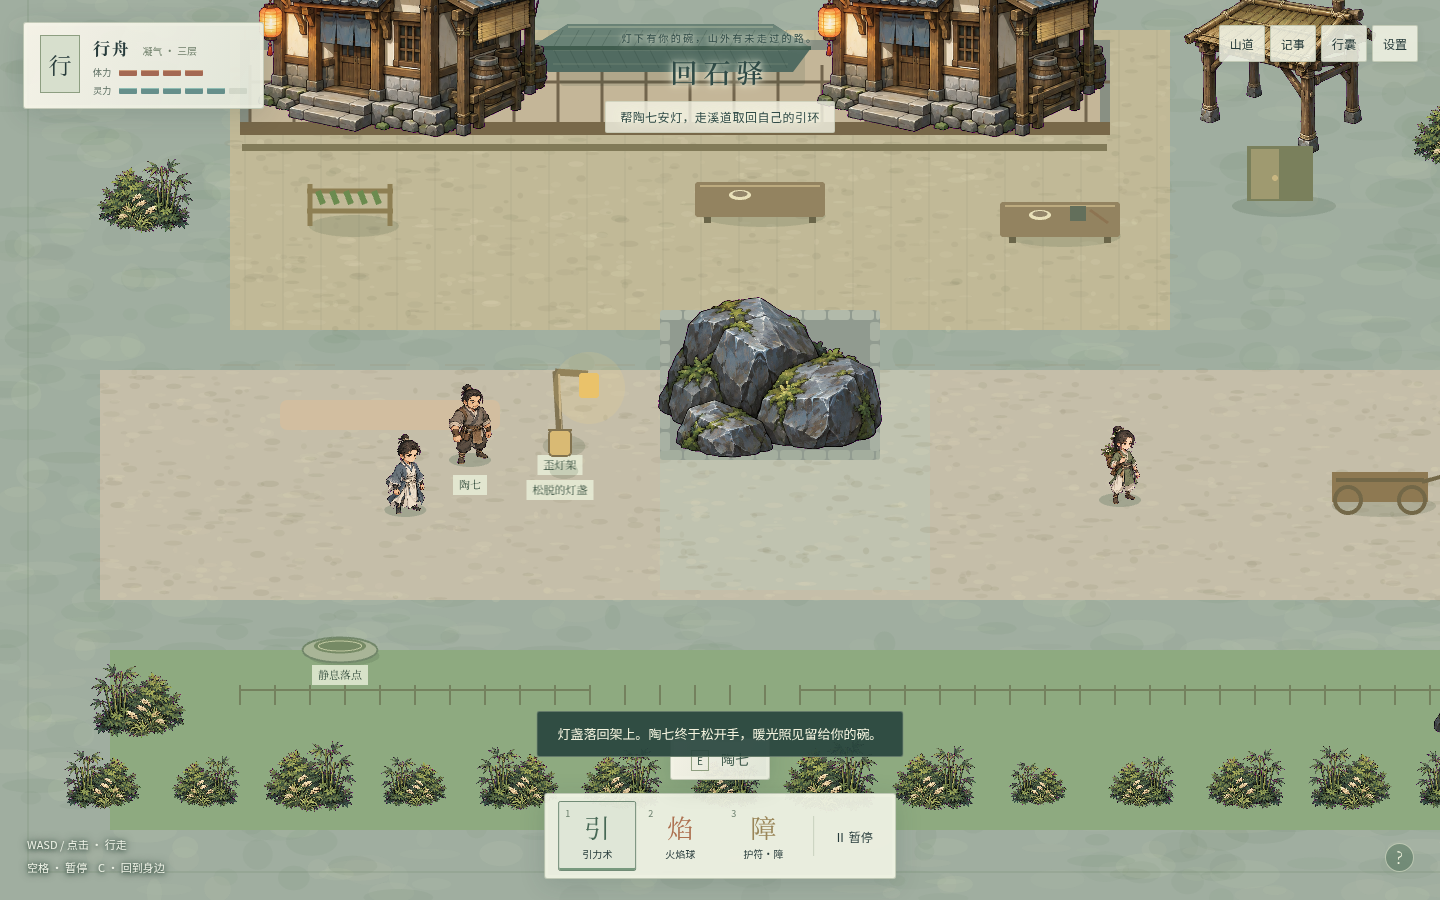
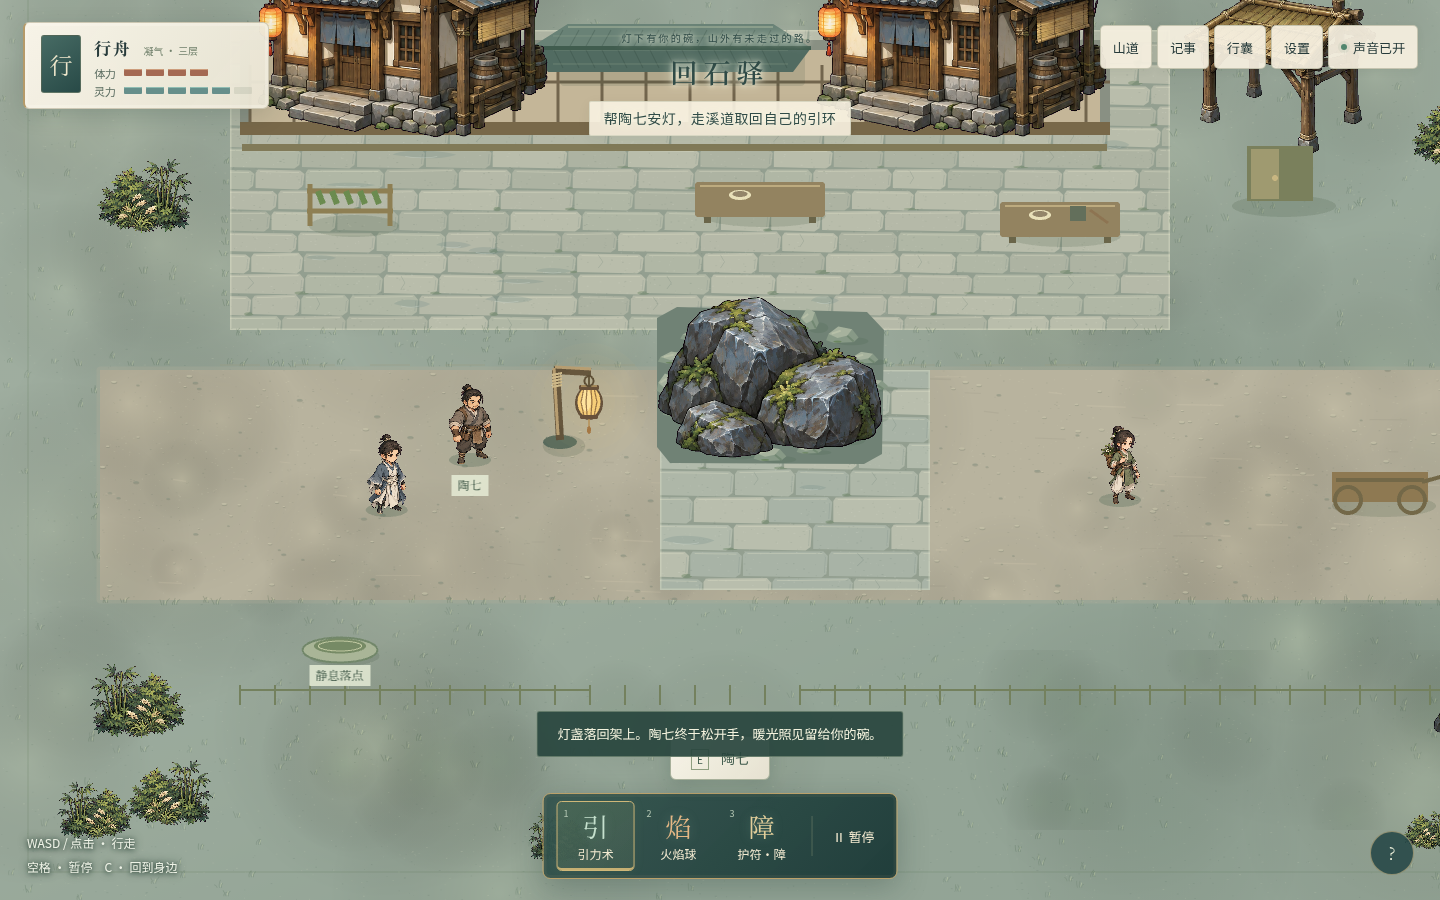
release: verify 0.1.1 public mobile rendering music and touch casting

diff --git a/HANDOFF.md b/HANDOFF.md
@@ -1,23 +1,23 @@
 # 《仙逆：山门之外》首版交接
 
-2026-09-09。先读本文件、AGENTS.md、docs/PROGRESS.md及git status/log。用户最新反馈是手机有像素感、没有背景音乐及打击感；0.1.1 已实现高清渲染、手机布局、持续合成配乐、命中声画与暂停恢复，详情见 [0.1.1 修订](design/QUALITY_PATCH_011.md)。本次正在做最终发布验证，以进度首节和实际远端/公网版本为准。上轮 [改版目标图](design/QUALITY_REVISION.md)仍非实机，整套手绘资产重制未完成。不能把流程 PASS 当作用户认可品质；不重做小说研究或恢复旧发布拦截。
+2026-09-09。先读本文件、AGENTS.md、docs/PROGRESS.md及git status/log。用户最新反馈是手机有像素感、没有背景音乐及打击感；0.1.1 已上线并完成公网复查，包含高清渲染、手机布局、持续合成配乐、命中声画与暂停恢复，详情见 [0.1.1 修订](design/QUALITY_PATCH_011.md)。上轮 [改版目标图](design/QUALITY_REVISION.md)仍非实机，整套手绘资产重制未完成。不能把流程 PASS 当作用户认可品质；不重做小说研究或恢复旧发布拦截。
 
 ## 交付入口
 
 - 公网试玩：https://mekanuo.github.io/xian-ni-game/ ，无需登录或安装。
 - 工作目录 /home/zhangjingzhou/workspace/xian-ni-game；源码分支feat/return-stone-v1；mekanuo/xian-ni-game默认master未改；gh-pages只放运行资源。
 - 恢复基点bf4d922，完整设计3e02f78，用户已一次确认并创建Goal批准美术、实现、测试与公网首版。
-- M1 4b35f5c、M2 1982250、M3 3d5d5f1及拦截记录218ce2b均已成功推送。当前发行提交d9217d070aed09e5deca975b7268620f7c335b7b；线上release.json标记源码218ce2b92630ecdc4cb1a0a094be9ddc8073e394，其玩法代码即3d5d5f1。
+- 历史M1 4b35f5c、M2 1982250、M3 3d5d5f1均已推送。当前0.1.1源码为dd3b71f2e8354387ce9a57608c9366de5f551dce，发行分支提交49d7df9ac52c3641ccdbf220ec045f251b689da4；线上release.json已经核对为0.1.1及该源码SHA。
 - 最后交付文档提交只更新记录/检查脚本，不改变运行包。以Git实际SHA核对最新说明，不把本文件自身SHA写成固定锚。
 
 ## 已完成与验证范围
 
 - 四个相连场景、两种出身与心愿、引力术/火焰球/定向护符、长牵/留势实际训练、同行与补救、两条地理路线、风铃/地图/工位归来变化、存档和重开已实现。
 - 原创标题、四位主要人物、场景焦点、散修/山兽图集已接入，PNG洋红底由运行时色键处理；动画由原画翻转、摆动和状态效果组成。来源和限制见design/ASSET_LOG.md。
-- npm run verify exit0，qa/verification.json六项PASS，28项模型回归；Linux Chrome150中真实纯鼠标亲试两种练法、同行登台、取风铃、山脊往返、共同地图、结局后继续和重开。
+- 0.1.1 npm run verify exit0，qa/verification.json六项PASS，35项模型/事件/真实Chrome WebAudio回归；手机DPR3横竖屏与旋屏触控、命中/挡击/受伤声画、菜单暂停恢复通过。完整鼠标流程亲试两种练法、同行登台、取风铃、山脊往返、共同地图、结局后继续和重开。
 - 主渡及守卫/护符/同伴/补救边界有模型回归证据，不冒称主渡也已浏览器完整通关。
-- node scripts/public-check.mjs exit0：匿名线上7个运行文件哈希与已验证dist一致；公网创建、施术归灯、移动正常，无pageerror。证据qa/evidence/publication.json、public-start.png。
-- Mac浏览器为目标，但Mac/Safari/触控板未实测；自然时长、主观趣味未验证。不能把Linux证据说成Mac已经通过。
+- node scripts/public-check.mjs exit0：匿名线上7个运行文件哈希与已验证dist一致；桌面创建/归灯/移动，手机尺寸DPR3触控护符及实际音乐输出均通过，无pageerror。证据qa/evidence/publication.json、public-start.png、public-mobile.png。
+- Mac/Safari/触控板以及iPhone/Android真机扬声器均未实测；手机证据为Chrome触屏/DPR仿真。自然时长、用户主观趣味和打击感仍需试玩反馈。
 
 ## 后续工作原则
 

diff --git a/docs/PROGRESS.md b/docs/PROGRESS.md
@@ -4,7 +4,8 @@
 - 原创地面纹理与灯盏细节接入四场景，移除重复灯盏表现及紫色边缘残留；手机界面重排、安全区和触控尺寸、常驻声音状态/开关。
 - 原创八小节持续合成配乐、独立音乐/音效总线、手势解锁与后台恢复；真实命中/挡击/受伤逐事件播放，加入聚光、尾迹、冲击环、光屑、短退与受击闪色。低动效保留结果提示并取消镜头震动。
 - 修复菜单/交谈结束后的多余暂停；独立审阅发现“对话中按J开记事”会把临时暂停变成主动暂停，已用真实键盘复现并修正菜单重复发暂停动作。
-- 最终 `npm run verify` exit0：35项模型/事件/真实Chrome WebAudio测试、手机触控/旋屏、战斗声画、界面/存档、完整山脊通关及重开通过，六项PASS。当前准备提交推送与公网0.1.1发布，发布结果以随后记录为准。
+- 最终 `npm run verify` exit0：35项模型/事件/真实Chrome WebAudio测试、手机触控/旋屏、战斗声画、界面/存档、完整山脊通关及重开通过，六项PASS。源码dd3b71f已成功推送；gh-pages发行49d7df9已发布0.1.1。
+- `node scripts/public-check.mjs` exit0：公网release.json版本/源码、7个文件SHA256核对一致；匿名桌面创建/归灯/键盘移动、390×844 DPR3触控施术和音乐RMS输出通过，无pageerror。新证据qa/evidence/publication.json、public-start.png、public-mobile.png。公网入口仍为https://mekanuo.github.io/xian-ni-game/。
 - 证据新增qa/evidence/mobile-render.json、mobile-390.png、mobile-844.png、combat.json、combat-hit.png、combat-hurt.png。手机是Chrome触屏/DPR仿真；iPhone/Android真机声音、Safari和用户主观打击感未验证。上轮目标图的全套手绘建筑/角色重制仍未完成。
 
 ## 2026-09-09 用户试玩：画面与交互品质需要改版
